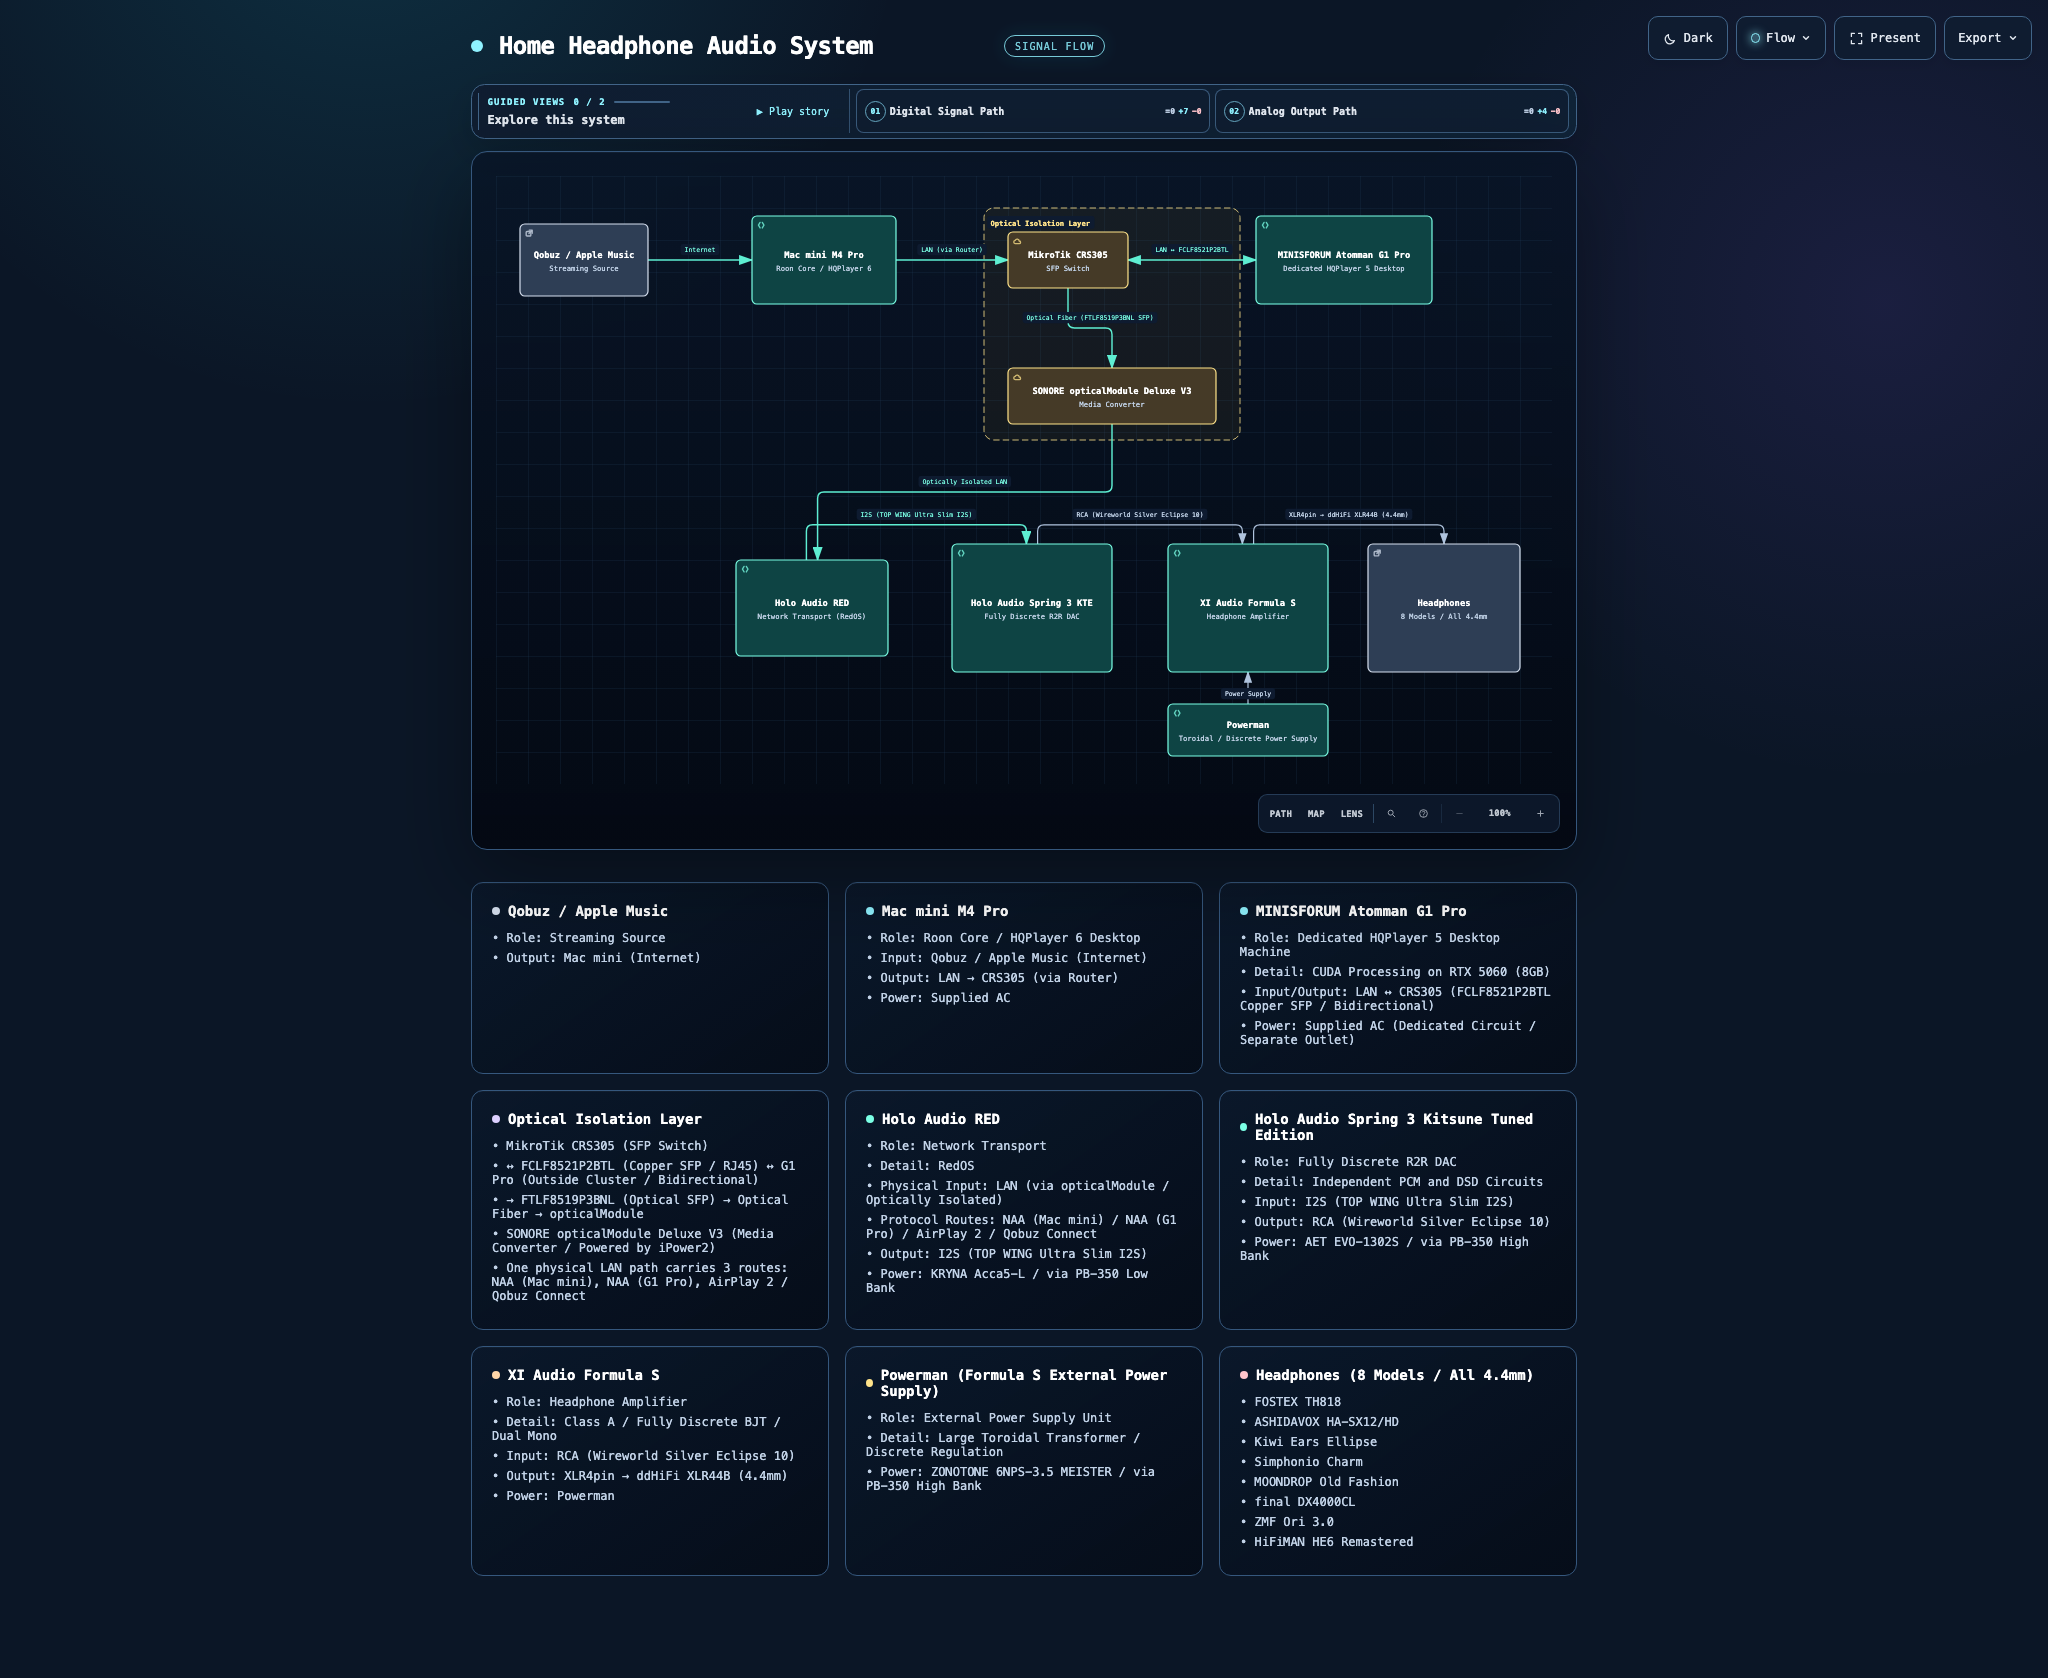
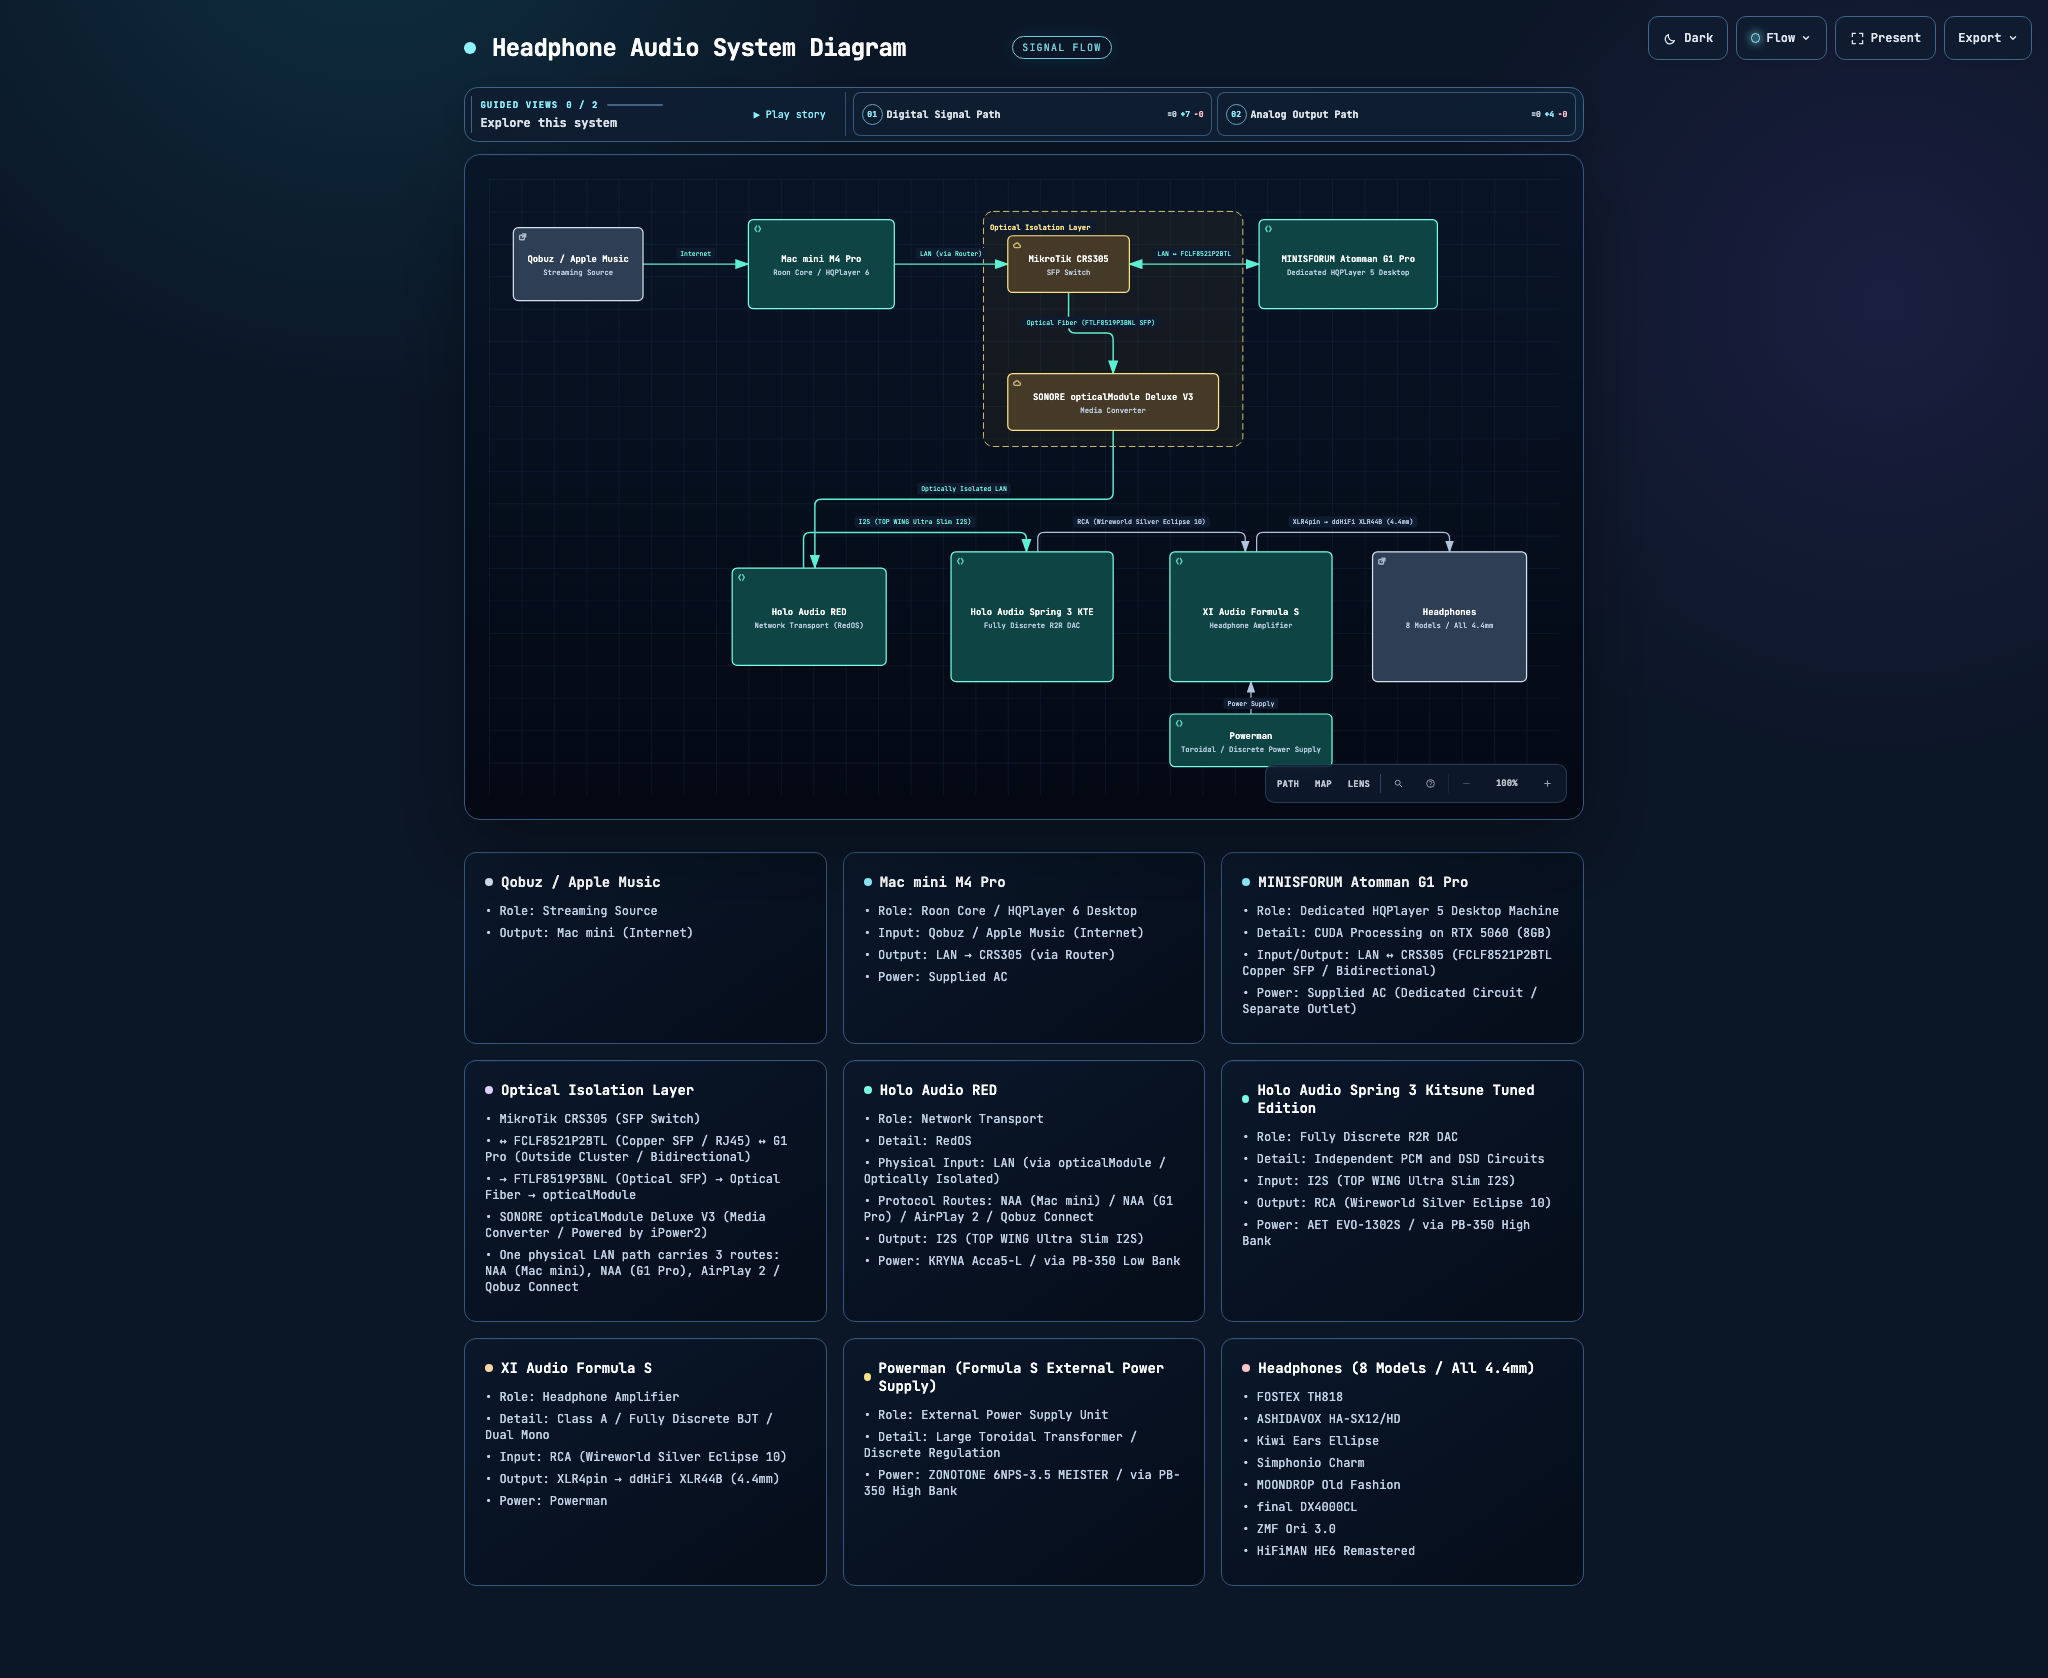
Rename diagram title

diff --git a/index.html b/index.html
@@ -4,7 +4,7 @@
   <meta charset="UTF-8">
   <meta name="viewport" content="width=device-width, initial-scale=1.0">
   <meta name="generator" content="archify 2.16.0">
-  <title>Home Headphone Audio System Diagram</title>
+  <title>Headphone Audio System Diagram</title>
   <script>
     // Resolve the theme before first paint so light-preference users don't
     // see a dark flash. The toolbar script below re-applies with UI state.
@@ -4955,7 +4955,7 @@
            data-preset-badge-blueprint="BLUEPRINT / REV 01"
            data-preset-badge-editorial="EDITORIAL / FIELD NOTE">
         <div class="pulse-dot"></div>
-        <h1>Home Headphone Audio System</h1>
+        <h1>Headphone Audio System Diagram</h1>
       </div>
     </div>
 
@@ -5005,7 +5005,7 @@
     <div class="diagram-container" data-detail-level="read"
          data-preset-badge-editorial-plate="ARCHIFY / PLATE 04">
       <svg viewBox="0 0 1320 760" role="img" lang="en" aria-labelledby="archify-diagram-title archify-diagram-description" data-preset="signal-flow" data-quality-profile="showcase">
-        <title id="archify-diagram-title">Home Headphone Audio System</title>
+        <title id="archify-diagram-title">Headphone Audio System Diagram</title>
         <desc id="archify-diagram-description">An architecture diagram generated by Archify.</desc>
         <!-- Definitions -->
         <defs>
